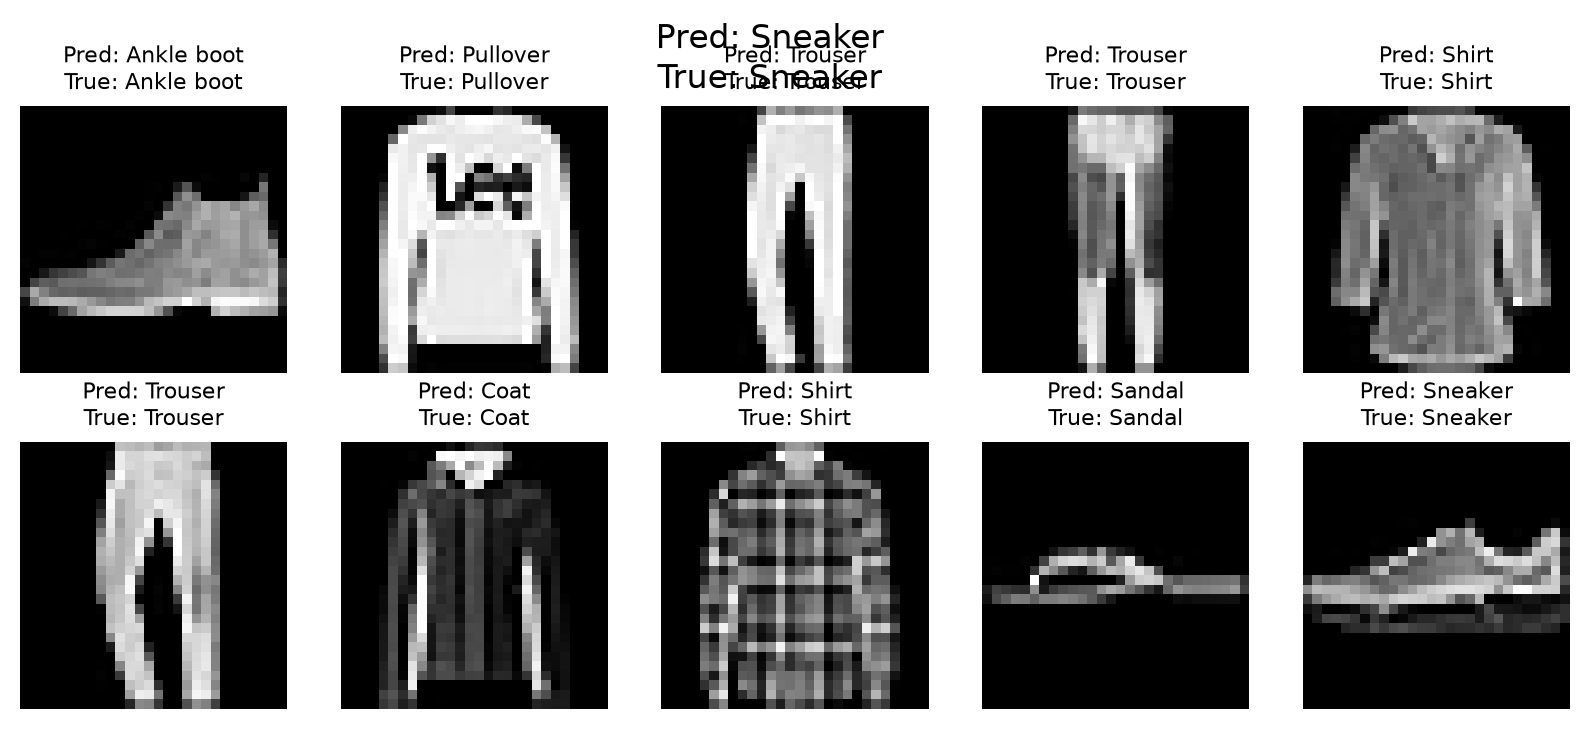
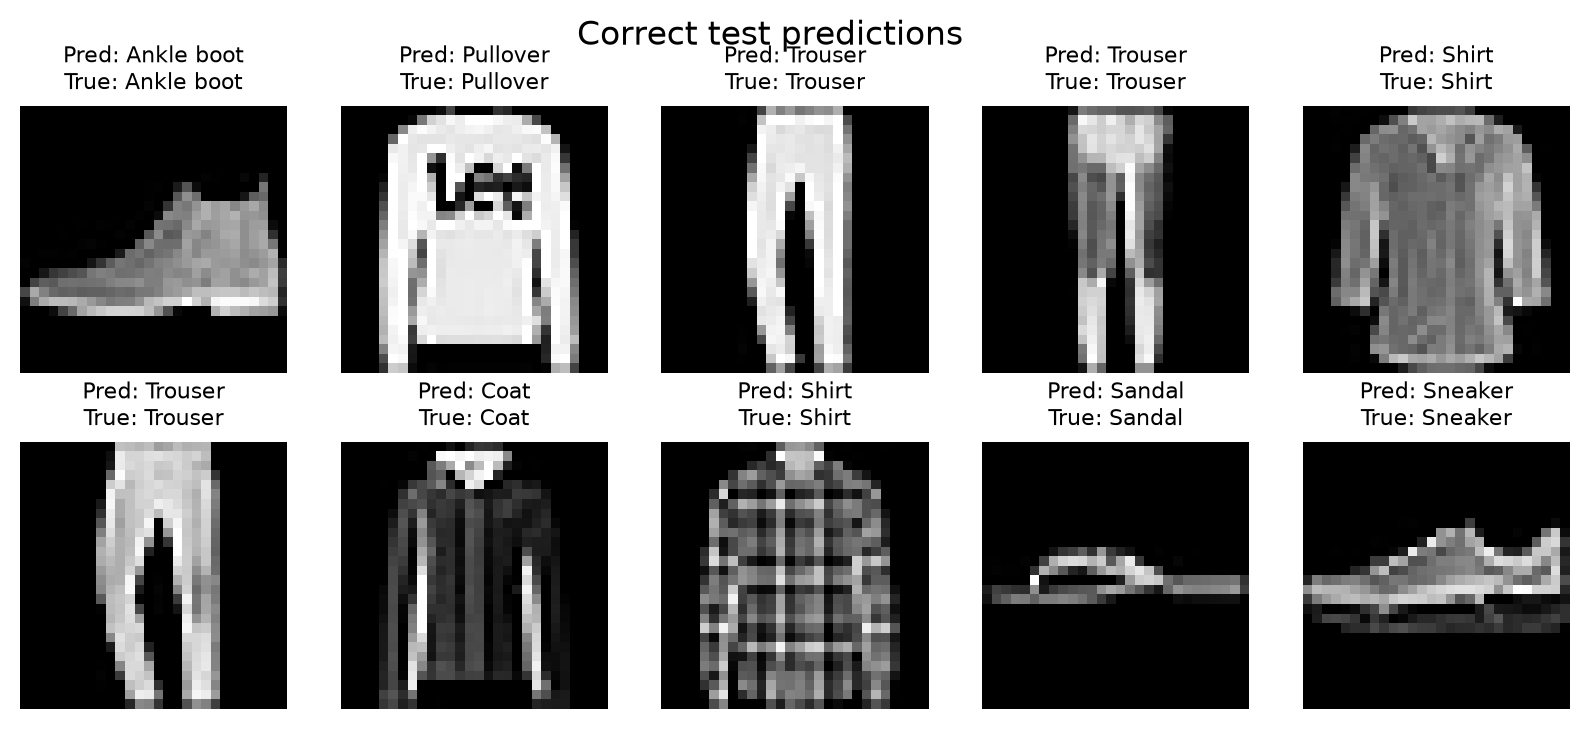
fixed images and figures

Changed region(s): [[0.3698, 0.0302, 0.6164, 0.1207]]

diff --git a/resource/generate_report_figures.py b/resource/generate_report_figures.py
@@ -4,7 +4,7 @@ import sys
 import joblib
 import matplotlib.pyplot as plt
 import numpy as np
-from sklearn.metrics import classification_report, confusion_matrix
+from sklearn.metrics import confusion_matrix
 
 PROJECT_ROOT = Path(__file__).resolve().parent.parent
 sys.path.insert(0, str(PROJECT_ROOT))
@@ -65,54 +65,18 @@ def plot_confusion_matrix(y_test, y_pred):
     save_figure("confusion_matrix.png")
 
 
-def plot_classification_report(y_test, y_pred):
-    report = classification_report(
-        y_test,
-        y_pred,
-        target_names=CLASS_NAMES,
-        output_dict=True,
-    )
-    rows = CLASS_NAMES + ["accuracy", "macro avg", "weighted avg"]
-    columns = ["precision", "recall", "f1-score", "support"]
-    values = []
-    for row in rows:
-        if row == "accuracy":
-            values.append(["", "", f"{report[row]:.4f}", f"{int(report['weighted avg']['support'])}"])
-        else:
-            values.append([
-                f"{report[row][column]:.4f}" if column != "support" else str(int(report[row][column]))
-                for column in columns
-            ])
-
-    figure, axis = plt.subplots(figsize=(9, 5.5))
-    axis.axis("off")
-    table = axis.table(
-        cellText=values,
-        rowLabels=rows,
-        colLabels=columns,
-        cellLoc="center",
-        rowLoc="center",
-        loc="center",
-    )
-    table.auto_set_font_size(False)
-    table.set_fontsize(8)
-    table.scale(1, 1.5)
-    axis.set_title("Fashion-MNIST classification report")
-    save_figure("classification_report.png")
-
-
-def plot_predictions(x_test, y_test, y_pred, indices, title, filename, title_colour=None):
+def plot_predictions(x_test, y_test, y_pred, indices, figure_title, filename, title_colour=None):
     plt.figure(figsize=(10, 4))
     for position, index in enumerate(indices[:10]):
         plt.subplot(2, 5, position + 1)
         plt.imshow(x_test[index], cmap="gray")
-        title = f"Pred: {CLASS_NAMES[y_pred[index]]}\nTrue: {CLASS_NAMES[y_test[index]]}"
+        image_title = f"Pred: {CLASS_NAMES[y_pred[index]]}\nTrue: {CLASS_NAMES[y_test[index]]}"
         if title_colour is None:
-            plt.title(title, fontsize=8)
+            plt.title(image_title, fontsize=8)
         else:
-            plt.title(title, color=title_colour, fontsize=8)
+            plt.title(image_title, color=title_colour, fontsize=8)
         plt.axis("off")
-    plt.suptitle(title)
+    plt.suptitle(figure_title)
     save_figure(filename)
 
 
@@ -128,7 +92,6 @@ def main():
 
     plot_training_examples(x_train, y_train)
     plot_confusion_matrix(y_test, y_pred)
-    plot_classification_report(y_test, y_pred)
     correct_indices = np.flatnonzero(y_pred == y_test)
     incorrect_indices = np.flatnonzero(y_pred != y_test)
     plot_predictions(

diff --git a/report/report.md b/report/report.md
@@ -153,8 +153,23 @@ After fitting, I generated predictions for the held-out test features. The final
 
 The final classification report produced a macro-average precision of `0.8427`, macro-average recall of `0.8439`, and macro-average F1-score of `0.8430`. Trouser had the highest recall at `0.9580`, while Shirt had the lowest recall at `0.5680`.
 
-![Fashion-MNIST classification report](figures/classification_report.png)
-*Figure 2: Classification report for the final test evaluation.*
+| Class / average | Precision | Recall | F1-score | Support |
+| --- | ---: | ---: | ---: | ---: |
+| T-shirt/top | 0.7970 | 0.8050 | 0.8010 | 1000 |
+| Trouser | 0.9726 | 0.9580 | 0.9652 | 1000 |
+| Pullover | 0.7281 | 0.7390 | 0.7335 | 1000 |
+| Dress | 0.8288 | 0.8620 | 0.8451 | 1000 |
+| Coat | 0.7389 | 0.7640 | 0.7512 | 1000 |
+| Sandal | 0.9437 | 0.9220 | 0.9327 | 1000 |
+| Shirt | 0.6283 | 0.5680 | 0.5966 | 1000 |
+| Sneaker | 0.9108 | 0.9390 | 0.9247 | 1000 |
+| Bag | 0.9285 | 0.9350 | 0.9317 | 1000 |
+| Ankle boot | 0.9498 | 0.9470 | 0.9484 | 1000 |
+| Accuracy |  |  | 0.8439 | 10000 |
+| Macro average | 0.8427 | 0.8439 | 0.8430 | 10000 |
+| Weighted average | 0.8427 | 0.8439 | 0.8430 | 10000 |
+
+*Table 1: Classification report for the final test evaluation.*
 
 In the classification report, precision measures how often predictions for a class are correct, recall measures how many examples of that class are found, and the F1-score combines precision and recall. Support is the number of test examples belonging to each class. The macro average gives equal weight to each class, which is appropriate here because the test set contains 1,000 examples per class.
 
@@ -165,21 +180,21 @@ The confusion matrix shows that the model classified footwear classes more consi
 Rows in the confusion matrix represent the true class and columns represent the predicted class. Values on the diagonal are correct predictions. Off-diagonal values show the classes assigned incorrectly. For example, 145 Shirt images were predicted as T-shirt/top, making this one of the most prominent errors in the final test evaluation.
 
 ![Fashion-MNIST confusion matrix](figures/confusion_matrix.png)
-*Figure 3: Confusion matrix for the final test evaluation.*
+*Figure 2: Confusion matrix for the final test evaluation.*
 
 ### Correct predictions example images
 
 The program displays examples from the test set with their predicted and true class names. These examples provide visual evidence of predictions where the model assigned the correct class.
 
 ![Correct test predictions](figures/correct_predictions.png)
-*Figure 4: Examples of correctly classified test images.*
+*Figure 3: Examples of correctly classified test images.*
 
 ### Misclassified examples
 
 The program also displays incorrect predictions with the predicted and true class names. The most difficult class was Shirt, which had a recall of `0.5680`. The errors may result from the 28 x 28 image resolution, similar shapes between upper-body classes, and the linear decision boundary produced from flattened pixel features.
 
 ![Incorrect test predictions](figures/incorrect_predictions.png)
-*Figure 5: Examples of incorrectly classified test images.*
+*Figure 4: Examples of incorrectly classified test images.*
 
 ## Regularisation in Logistic Regression
 
